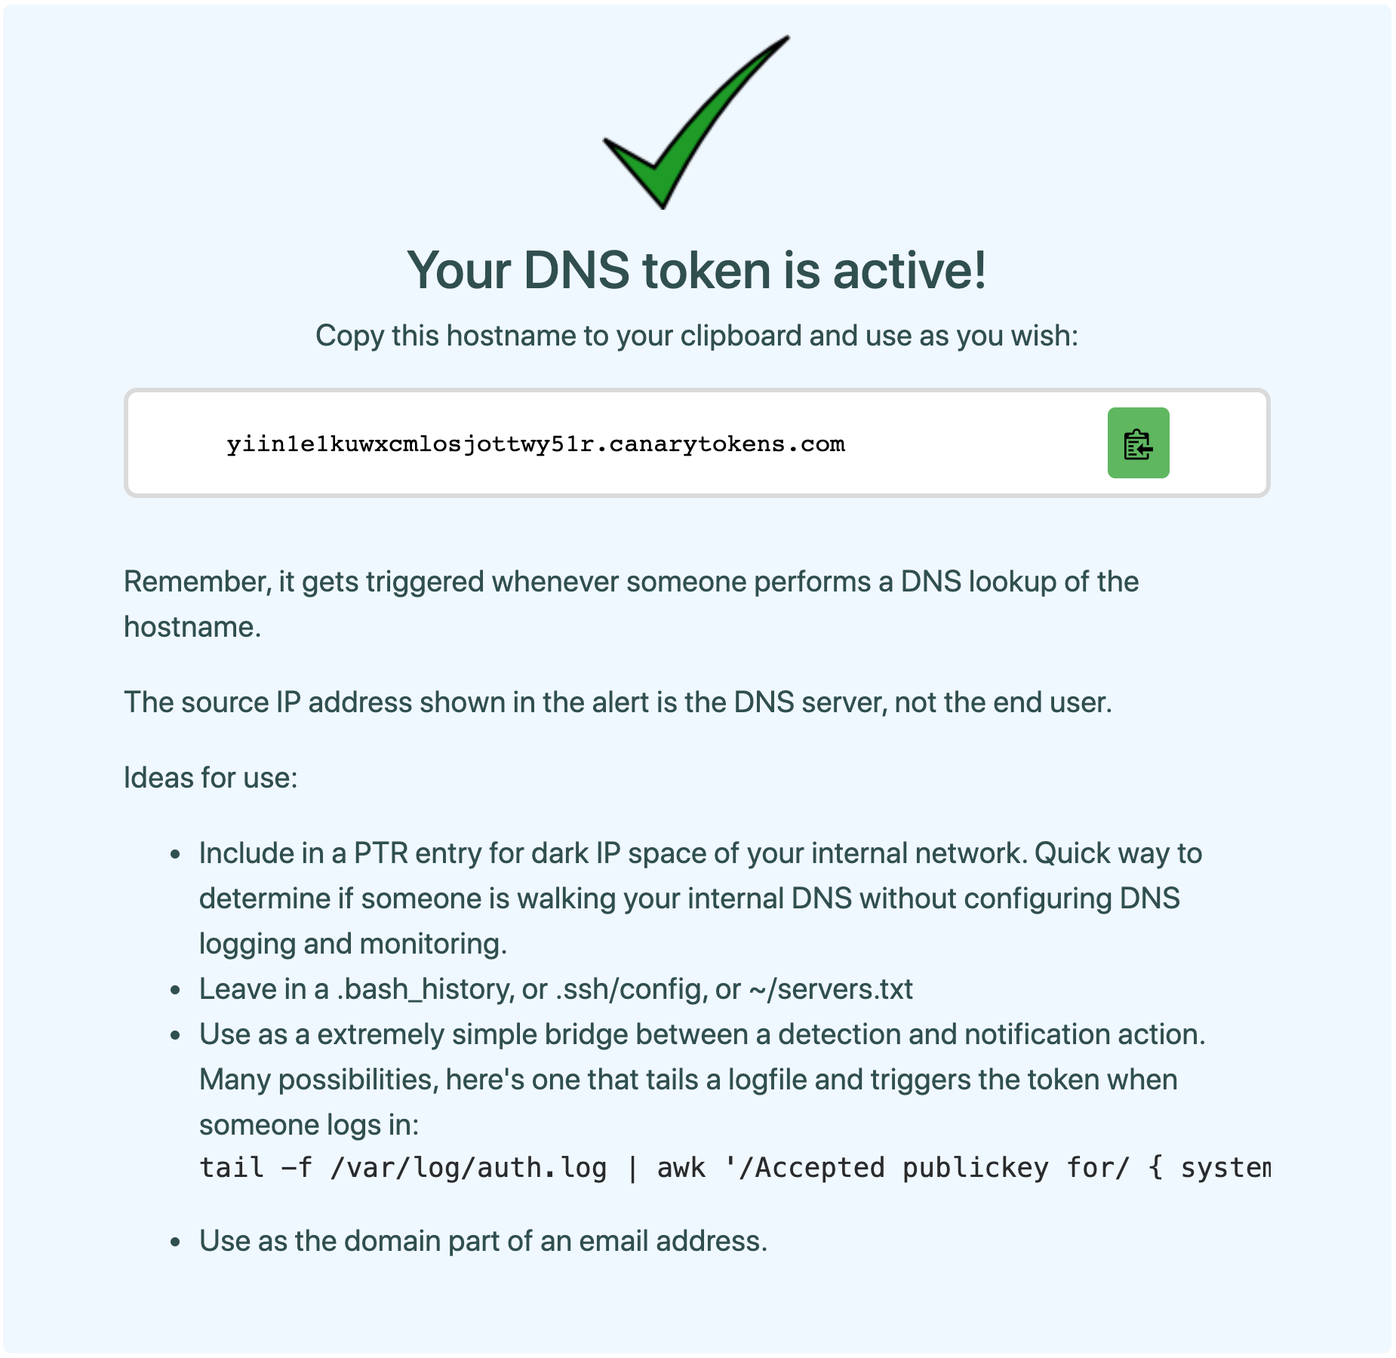
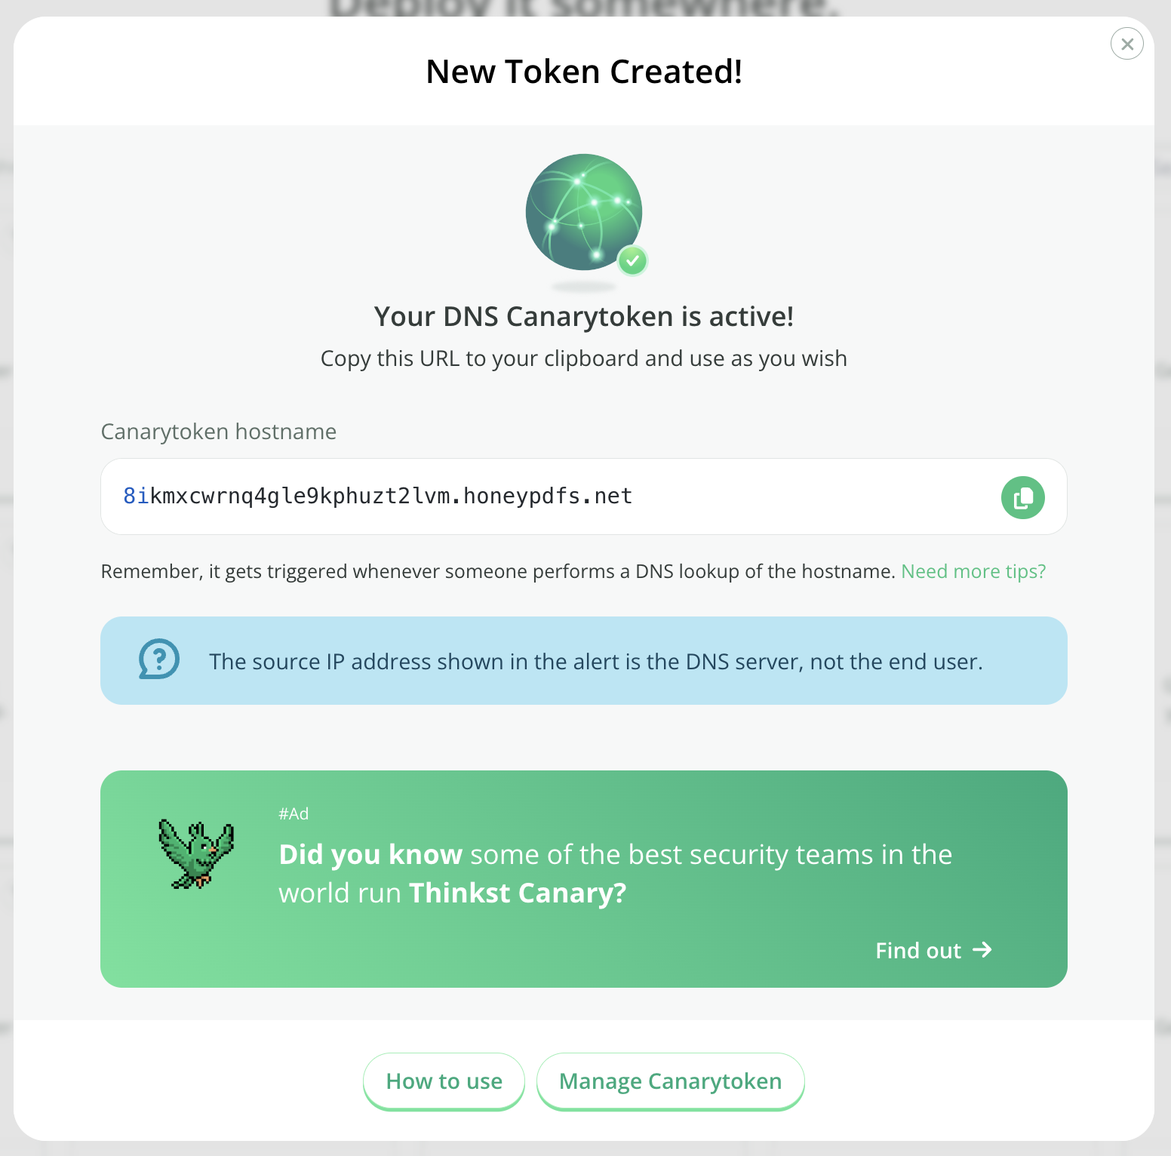
Updated doc canarytoken revamp (#53)
* Update wording and screenshots

* update wording

* update screenshot for DNS token

* remove nvmrc

* Fix typos and wording

* fix typo

* replace Canarytoken's

diff --git a/docs/guide/getting-started.md b/docs/guide/getting-started.md
@@ -4,15 +4,15 @@
 
 Go to [canarytokens.org](https://canarytokens.org/generate) and select your Canarytoken (supply an email to be notified at as well as a memo that reminds you which Canarytoken this is and where you put it).
 
-![Created an HTTP token](../.vuepress/images/http_token_creating.png)
+![Created an HTTP Canarytoken](../.vuepress/images/http_token_creating.png)
 
 Place the generated Canarytoken somewhere special (read the [examples](./examples.md) for ideas on where).
 
 If an attacker ever trips on the Canarytoken somehow, you'll get an email letting you know that it has happened.
 
-## How do attackers trip over a token
+## How do attackers trip over a Canarytoken
 
-Recall that a typical token is a unique URL and/or hostname. The URL component is pretty flexible. This means that if your token is:
+Recall that a typical Canarytoken is a unique URL and/or hostname. The URL component is pretty flexible. This means that if your Canarytoken is:
 
 ```bash
 http://45e51129ec7e.o3n.io/images/o63277vnjf6nfobn3cbey69fh/spacer.gif
@@ -27,25 +27,25 @@ http://45e51129ec7e.o3n.io/images/o63277vnjf6nfobn3cbey69fh/passwords.zip
 http://45e51129ec7e.o3n.io/images/o63277vnjf6nfobn3cbey69fh/anything-really
 ```
 
-would still activate your token. This gives us the simplest use-case for a token, an old fashioned web-bug.
+would still activate your Canarytoken. This gives us the simplest use-case for a Canarytoken, an old fashioned web-bug.
 
-For example, you could send yourself an email with a link to the token plus some lure text:
+For example, you could send yourself an email with a link to the Canarytoken plus some lure text:
 
 ![Tokened mail](../.vuepress/images/tokened_mail.png)
 
 
 Simply keep it in your inbox unread since you know not to touch it. An attacker who has grabbed your mail-spool doesn't. So if your emails are stolen, then an attacker reading them should be attracted to the mail and visit the link – and while your week is about to get worse, at least you know.
 
-If you like, you could even use the same token as an embedded image. This way it works like the classic 1x1 transparent GIF. Now an attacker reading your inbox could trip over it just because his mail client renders remote images. (In this way you can use free Canarytokens as a classic web/mail-bug, to receive a notification when an email you send has been read.)
+If you like, you could even use the same Canarytoken as an embedded image. This way it works like the classic 1x1 transparent GIF. Now an attacker reading your inbox could trip over it just because his mail client renders remote images. (In this way you can use free Canarytokens as a classic web/mail-bug, to receive a notification when an email you send has been read.)
 
 ## What memo should I use
 
-Over time, if you are using Canarytokens correctly, you will deploy thousands of them all over the place. Make sure that your Reminder is descriptive, and will be self-describing. Nothing sucks more than having a token fire an alert that reads “test" - and not knowing where you placed it.
+Over time, if you are using Canarytokens correctly, you will deploy thousands of them all over the place. Make sure that your Reminder is descriptive, and will be self-describing. Nothing sucks more than having a Canarytoken fire an alert that reads “test" - and not knowing where you placed it.
 
 ## Production Usage
 
 Canarytokens can be used as simple web-bugs, but they are incredibly flexible as we'll see.
 
-You may have a fancy SIEM that lets you know when stuff happens, but you'll find that with a little creativity, there's a bunch of places that you could get wins from a token (that can be deployed in seconds) that you couldn't easily get to otherwise.
+You may have a fancy SIEM that lets you know when stuff happens, but you'll find that with a little creativity, there's a bunch of places that you could get wins from a Canarytoken (that can be deployed in seconds) that you couldn't easily get to otherwise.
 
-Do you trust the admins/support at DropBox to leave your files alone? (or Office365? or HipChat?) Simply generate a token and drop it in your folder, or mention it in your HipChat channel. If some admin is browsing contents in their spare time (or is being coerced to do so by a 3rd party) they will trip over your URL and you'll be notified.
+Do you trust the admins/support at Dropbox to leave your files alone? (or Office365?) Simply generate a Canarytoken and drop it in your folder, or mention it in your HipChat channel. If some admin is browsing contents in their spare time (or is being coerced to do so by a 3rd party) they will trip over your URL and you'll be notified.

diff --git a/docs/guide/dns-token.md b/docs/guide/dns-token.md
@@ -1,33 +1,33 @@
-# DNS Token
+# DNS Canarytoken
 
-## What is a DNS token
+## What is a DNS Canarytoken
 
 When you create a DNS based Canarytoken, the system gives you a unique Internet resolvable domain name.
 
 Anyone attempting to resolve this domain name, will now trigger an alert.
 
-Why does this matter? Once you are able to get an alert for a web-based token, or a DNS based token, you have the building blocks for squillions of possible tripwires.
+Why does this matter? Once you are able to get an alert for a web-based Canarytoken, or a DNS based Canarytoken, you have the building blocks for squillions of possible tripwires.
 
-## Creating a DNS token
+## Creating a DNS Canarytoken
 
-Head on over to [canarytokens.org](https://canarytokens.org/generate) and select `DNS token`:
+Head on over to [canarytokens.org](https://canarytokens.org/generate) and select `DNS`:
 
-![Creating a DNS token](../.vuepress/images/dns_token_creating.png)
+![Creating a DNS Canarytoken](../.vuepress/images/dns_token_creating.png)
 
 Enter your email address along with a reminder that will be easy to understand then click Create:
 
-![Created an HTTP token](../.vuepress/images/dns_token_created.png)
+![Created an HTTP Canarytoken](../.vuepress/images/dns_token_created.png)
 
 Copy the hostname and place it somewhere useful.
 
-## Encoding additional information in your token
+## Encoding additional information in your Canarytoken
 
-Your DNS token can carry a small amount of additional custom data when it’s triggered. This can be used for adding incident-specific data to your alert with custom DNS based tokens. Use the following encoding rules to place generic data into your DNS token:
+Your DNS Canarytoken can carry a small amount of additional custom data when it’s triggered. This can be used for adding incident-specific data to your alert with custom DNS based Canarytokens. Use the following encoding rules to place generic data into your DNS Canarytoken:
 
  * Base32 encode your data, and remove any padding '=' characters
  * Insert periods (.) after every 63-bytes
  * Append the magic string '.G'+<2-random-digits>+'.' (e.g. '.G12.' or '.G83.')
- * Append your DNS token
+ * Append your DNS Canarytoken
 This creates a new hostname of the form:
 ```
   <base32-string>.<base32-string>.G<2-random-digits>.<dns-token>

diff --git a/docs/guide/css-cloned-site-token.md b/docs/guide/css-cloned-site-token.md
@@ -1,14 +1,14 @@
-# CSS Cloned Website Token
+# CSS Cloned Website Canarytoken
 
-## What is a CSS Cloned Website Token
+## What is a CSS Cloned Website Canarytoken
 
 This Canarytoken is placed within either the CSS of your site, or inside a 3rd party site, where you may not be able to add JavaScript and notifies you if someone clones your site and hosts it on another domain. This can alert on targeted or Adversary-in-the-Middle (AitM) phishing attacks.
 
-## Creating a CSS Cloned Website Token
+## Creating a CSS Cloned Website Canarytoken
 
-Create a token by choosing "CSS Cloned Website" from the dropdown list.
+Create a Canarytoken by choosing "CSS Cloned Website" from the Canarytokens list.
 
-Leave a reasonable comment to remind yourself where you will deploy the token. Then, supply the domain that you want to protect (this is the domain where the site is deployed that you will insert your tokenized css into).
+Leave a reasonable comment to remind yourself where you will deploy the Canarytoken. Then, supply the domain that you want to protect (this is the domain where the site is deployed that you will insert your tokenized css into).
 
 You'll get a CSS Snippet similar to:
 
@@ -18,9 +18,9 @@ body {
 }
 ```
 
-Upon a client making the request, our CloudFront infrastructure will validate the HTTP Referer header to ensure it is expected. You get an alert if the domain doesn't match the expected domain used during the creation of the token.
+Upon a client making the request, our CloudFront infrastructure will validate the HTTP Referer header to ensure it is expected. You get an alert if the domain doesn't match the expected domain used during the creation of the Canarytoken.
 
 Ideas for use:
 
- - Only the `url()` portion is required, you can change the selector and add `opacity: 0` or `display: hidden` if you want to style an invisible element. 
+ - Only the `url()` portion is required, you can change the selector and add `opacity: 0` or `display: hidden` if you want to style an invisible element.
  - Use this CSS to style 3rd party authentication pages, such as a [LogTo](https://logto.io) page, or an [AWS Cognito login](https://docs.aws.amazon.com/cognito/latest/developerguide/cognito-user-pools-app-ui-customization.html)

diff --git a/docs/guide/windows-directory-token.md b/docs/guide/windows-directory-token.md
@@ -1,19 +1,19 @@
-# Windows Directory Token
+# Windows Directory Canarytoken
 
-## What is a Windows Directory Token
+## What is a Windows Directory Canarytoken
 
-This token allows you to get a notification when someone browses to a “token’d" directory on a Windows server or machine.
+This Canarytoken allows you to get a notification when someone browses to a “Canarytoken’d" directory on a Windows server or machine.
 
-## Creating the token
+## Creating the Canarytoken
 
-Create a token, by choosing “Windows Directory Browsing" from the drop down list.
+Create a Canarytoken, by choosing “Windows Directory Browsing" from the Canarytokens list.
 
-Leave a reasonable comment to remind you where you will deploy the token and then download the generated file.
+Leave a reasonable comment to remind you where you will deploy the Canarytoken and then download the generated file.
 
 This offers you a download of a desktop.ini file (inside of a zip file). Simply create a folder on a Windows machine of your choice, and place the desktop.ini file in it. If an attacker browses that directory, you will get your console alert.
 
-(WinZIP and WinRAR both maintain directory structures and honour desktop.ini – you can download a Zip file with the desktop.ini already packaged after you generate your token, and you'll get notified if someone opens (expands) the Zip file.)
+(WinZIP and WinRAR both maintain directory structures and honour desktop.ini – you can download a Zip file with the desktop.ini already packaged after you generate your Canarytoken, and you'll get notified if someone opens (expands) the Zip file.)
 
 ## How this works
 
-Dropping a desktop.ini file in a folder allows Explorer to set a custom icon for a file. Since this icon can reside on a remote server (via a UNC path), using DNS we can effectively make use of a token as our icon file.
+Dropping a desktop.ini file in a folder allows Explorer to set a custom icon for a file. Since this icon can reside on a remote server (via a UNC path), using DNS we can effectively make use of a Canarytoken as our icon file.

diff --git a/docs/guide/sensitive-cmd-token.md b/docs/guide/sensitive-cmd-token.md
@@ -1,17 +1,17 @@
-# Sensitive Command Token
+# Sensitive Command Canarytoken
 
-## What is a Sensitive Command token
+## What is a Sensitive Command Canarytoken
 
 Have you ever wanted a quick alert if an unexpected Windows process runs on a host?
 
 This simple Canarytoken allows you to set up a quick alert when you want to know any time a specific command is executed.
 
-This token creates a registry key and sends an alert to you in near real-time that the command of interest had been executed.
+This Canarytoken creates a registry key and sends an alert to you in near real-time that the command of interest had been executed.
 
 
-## Creating a Sensitive Command token
+## Creating a Sensitive Command Canarytoken
 
-Head on over to [canarytokens.org](https://canarytokens.org/generate) and select `Sensitive command token`:
+Head on over to [canarytokens.org](https://canarytokens.org/generate) and select `Sensitive command`:
 
 <img width="683" alt="image" src="https://user-images.githubusercontent.com/110428675/188695846-f0941a65-acc2-4693-8c5b-0e8e2a3d9c06.png">
 
@@ -22,7 +22,7 @@ then click Create:
 <img width="623" alt="image" src="https://user-images.githubusercontent.com/110428675/188696025-b866f09a-29bd-48e8-b4fc-628f7e8ccb2c.png">
 
 
-Download the .reg file to a Windows system. 
+Download the .reg file to a Windows system.
 
 <img width="656" alt="image" src="https://user-images.githubusercontent.com/110428675/188696150-1159b2cd-2e10-469f-8099-bfeebb74ce38.png">
 
@@ -34,7 +34,7 @@ reg import <filepath\filename.reg> /reg:64
 reg import <filepath\filename.reg> /reg:32
 ```
 
-## How to use this token 
+## How to use this Canarytoken
 
 Once installed (with admin permissions) you'll get an alert whenever someone (or someone's code) runs your sensitive process. It will automatically provide the command used, computer the command ran on, and the user invoking the command.
 

diff --git a/docs/guide/README.md b/docs/guide/README.md
@@ -6,12 +6,12 @@ prev: false
 
 ## What are Canarytokens
 
-You'll be familiar with web bugs, the transparent images which track when someone opens an email. They work by embedding a unique URL in a page's image tag, and monitoring incoming GET requests.
+Canarytokens are like motion sensors for your networks, computers and clouds. You can put them in folders, on network devices and on your phones.
 
-Imagine doing that, but for file reads, database queries, process executions or patterns in log files. Canarytokens does all this and more, letting you implant traps in your production systems rather than setting up separate honeypots.
+Place them where nobody should be poking around and get a clear alarm if they are accessed. They are designed to look juicy to attackers to increase the likelihood that they are opened (and they are completely free).
 
 ## Why should you use them
 
-Network breaches happen. From mega-corps, to governments. From unsuspecting grandmas to well-known security pros. This is (kinda) excusable. What isn't excusable, is only finding out about it, months or years later.
+Our Canarytokens are easy to sprinkle all over and forget about, until you get the notification that matters. They are super lightweight and don’t require installing software or running more background processes that can slow down your PC.
 
-Canarytokens are a free, quick, painless way to help defenders discover they've been breached (by having attackers announce themselves.)
+Canarytokens are a distilled version of our much-loved [Canary product](https://canary.tools/). They are dead simple, and they work.

diff --git a/docs/guide/mysql-dump-token.md b/docs/guide/mysql-dump-token.md
@@ -1,18 +1,18 @@
-# MySQL Dump Token
+# MySQL Dump Canarytoken
 
-## What is a MySQL Database Dump Token
+## What is a MySQL Database Dump Canarytoken
 
-This token is a sequence of SQL commands that trigger upon being imported or otherwise executed on a MySQL server. These commands can be optionally obfuscated and/or embedded into a fake SQL dump file with synthetic data.
+This Canarytoken is a sequence of SQL commands that trigger upon being imported or otherwise executed on a MySQL server. These commands can be optionally obfuscated and/or embedded into a fake SQL dump file with synthetic data.
 
 
-## Creating the token
+## Creating the Canarytoken
 
-Create a token by choosing "MySQL Dump" from the drop down list.
+Create a Canarytoken by choosing "MySQL" from the Canarytokens list.
 
-Enter your email address or webhook to send alerts to and leave a reasonable comment to remind yourself where you will deploy the token.
+Enter your email address or webhook to send alerts to and leave a reasonable comment to remind yourself where you will deploy the Canarytoken.
 
 You can either copy the generated SQL (encoded or not) into an existing MySQL dump file, or download a randomly-generated one with these commands already embedded.
 
-Leave this token file somewhere with other backups and if an attacker comes across it and imports it to see what it contains you'll be alerted!
+Leave this Canarytoken file somewhere with other backups and if an attacker comes across it and imports it to see what it contains you'll be alerted!
 
 

diff --git a/docs/guide/custom-exe-token.md b/docs/guide/custom-exe-token.md
@@ -1,17 +1,17 @@
-# Custom EXE Token
+# Custom EXE Canarytoken
 
-## What is a Custom EXE Token
+## What is a Custom EXE Canarytoken
 
-This token works by signing an EXE or a DLL with a certificate containing a Canarytoken. When the EXE is run, or the DLL is loaded, an alert is fired.
+This Canarytoken works by signing an EXE or a DLL with a certificate containing a Canarytoken. When the EXE is run, or the DLL is loaded, an alert is fired.
 
-## Creating the token
+## Creating the Canarytoken
 
-Create a token by choosing "Custom exe" from the drop down list.
+Create a Canarytoken by choosing "Custom exe / binary" from the Canarytokens list.
 
-Leave a reasonable comment to remind yourself where you will deploy the token. Then, select the EXE or the DLL to be signed.
+Leave a reasonable comment to remind yourself where you will deploy the Canarytoken. Then, select the EXE or the DLL to be signed.
 
-The file can now be downloaded. Remember, this token is triggered whenever the binary file is executed. For EXEs, this means direct execution and for DLLs, it means they were loaded.
+The file can now be downloaded. Remember, this Canarytoken is triggered whenever the binary file is executed. For EXEs, this means direct execution and for DLLs, it means they were loaded.
 
 ## What to tokenize
 
-When choosing which files to token, decide on a few binaries commonly used by attackers, and token these.
+When choosing which files to Canarytoken, decide on a few binaries commonly used by attackers, and Canarytoken these.

diff --git a/docs/guide/fast-redirect-token.md b/docs/guide/fast-redirect-token.md
@@ -1,11 +1,11 @@
-# Fast Redirect Token
+# Fast Redirect Canarytoken
 
-## What is a Fast Redirect Token
+## What is a Fast Redirect Canarytoken
 
-This token is similar to the HTTP token but the token redirects to a custom address once triggered. The difference between the regular HTTP token and the Fast Redirect is that this token does not collect browser nor browser plugin information. For a redirect that does, see the Slow Redirect token in the next section.
+This Canarytoken is similar to the HTTP Canarytoken but the Canarytoken redirects to a custom address once triggered. The difference between the regular HTTP Canarytoken and the Fast Redirect is that this Canarytoken does not collect browser nor browser plugin information. For a redirect that does, see the Slow Redirect Canarytoken in the next section.
 
 ## Creating the token
 
-Create a token by choosing "Fast Redirect" from the drop down list.
+Create a Canarytoken by choosing "Fast Redirect" from the Canarytokens list.
 
-Leave a reasonable comment to remind yourself where you will deploy the token. Add the redirect URL to which the token will redirect once fired. Then click "Create New Canarytoken" to create the token.
+Leave a reasonable comment to remind yourself where you will deploy the Canarytoken. Add the redirect URL to which the Canarytoken will redirect once fired. Then click "Create New Canarytoken" to create the Canarytoken.

diff --git a/docs/guide/web-image-token.md b/docs/guide/web-image-token.md
@@ -1,18 +1,18 @@
-# Web Image Token
+# Web Image Canarytoken
 
-## What is a Web Image Token
+## What is a Web Image Canarytoken
 
-This token works much like the default HTTP token, but allows you to bind the token to an image of your choosing. i.e. upload an image to your server. The server will serve this image to people, and will notify you when it does.
+This Canarytoken works much like the default HTTP Canarytoken, but allows you to bind the Canarytoken to an image of your choosing. i.e. upload an image to your server. The server will serve this image to people, and will notify you when it does.
 
-## Creating the token
+## Creating the Canarytoken
 
-Create a token by choosing "Custom Image Web bug" from the drop down list.
+Create a Canarytoken by choosing "Web Image" from the Canarytokens list.
 
-Leave a reasonable comment to remind yourself where you will deploy the token.
+Leave a reasonable comment to remind yourself where you will deploy the Canarytoken.
 
-This token is now a valid link to the image you uploaded.
+This Canarytoken is now a valid link to the image you uploaded.
 
-## How to use this token
+## How to use this Canarytoken
 
 A trick is to embed this image in an admin page for example. An attacker accessing the page will also load the image, sending you your notification that the page has been accessed.
 

diff --git a/docs/guide/aws-keys-token.md b/docs/guide/aws-keys-token.md
@@ -1,14 +1,14 @@
-# AWS API Keys Token
+# AWS API Keys Canarytoken
 
-## What is an AWS API Keys Token
+## What is an AWS API Keys Canarytoken
 
-This token provides you with a set of AWS API keys. Leave them in private code repositories, leave them on a developers machine. An attacker who stumbles on them will believe they are the keys to your cloud infrastructure. If they are used via the AWS API at any point, you will be alerted.
+This Canarytoken provides you with a set of AWS API keys. Leave them in private code repositories, leave them on a developers machine. An attacker who stumbles on them will believe they are the keys to your cloud infrastructure. If they are used via the AWS API at any point, you will be alerted.
 
-## Creating the token
+## Creating the Canarytoken
 
-Create a token by choosing "AWS API Key" from the drop down list.
+Create a Canarytoken by choosing "AWS Keys" from the Canarytokens list.
 
-Leave a reasonable comment to remind yourself where you will deploy the token.
+Leave a reasonable comment to remind yourself where you will deploy the Canarytoken.
 
 The AWS credentials that are displayed can be copied into a file named credentials or keys (as per AWS custom). The two provided keys must be kept together for an attacker to use the AWS API.
 

diff --git a/docs/guide/slow-redirect-token.md b/docs/guide/slow-redirect-token.md
@@ -1,11 +1,11 @@
-# Slow Redirect Token
+# Slow Redirect Canarytoken
 
-## What is a Slow Redirect Token
+## What is a Slow Redirect Canarytoken
 
-This token is similar to the HTTP token but the token redirects to a custom address once triggered. The difference between the regular Fast Redirect token and this is that this token runs a browser scanner that collects browser/plugin information.
+This Canarytoken is similar to the HTTP Canarytoken but the Canarytoken redirects to a custom address once triggered. The difference between the regular Fast Redirect Canarytoken and this is that this Canarytoken runs a browser scanner that collects browser/plugin information.
 
 ## Creating the token
 
-Create a token by choosing "Slow Redirect" from the drop down list.
+Create a token by choosing "Slow Redirect" from the Canarytokens list.
 
-Leave a reasonable comment to remind yourself where you will deploy the token. Add the redirect URL to which the token will redirect once fired. Then click "Create New Canarytoken" to create the token.
+Leave a reasonable comment to remind yourself where you will deploy the Canarytoken. Add the redirect URL to which the Canarytoken will redirect once fired. Then click "Create New Canarytoken" to create the Canarytoken.
